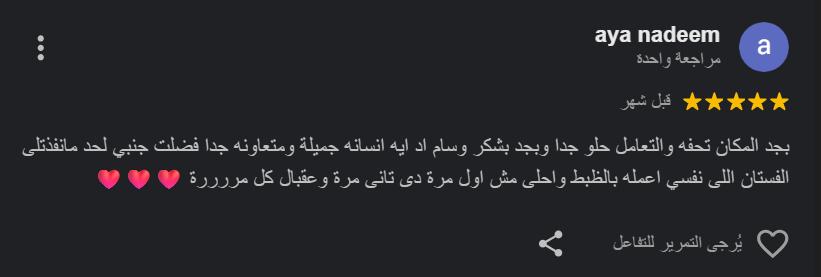
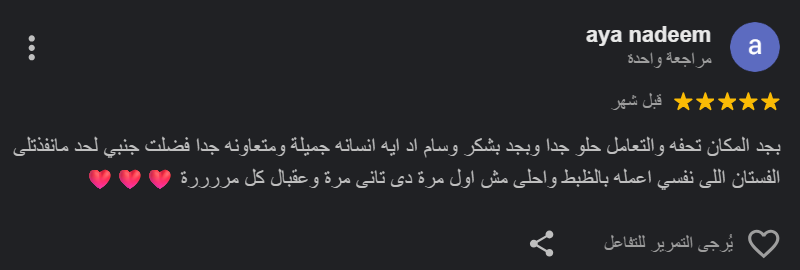
Auto update 2026-02-21 14:22

diff --git a/laravel_home/resources/views/home.blade.php b/laravel_home/resources/views/home.blade.php
@@ -774,11 +774,11 @@
         }
 
         .reviews-nav.prev {
-            right: 10px;
+            left: 10px;
         }
 
         .reviews-nav.next {
-            left: 10px;
+            right: 10px;
         }
 
         .review-shot {
@@ -806,13 +806,12 @@
         }
 
         .review-shot img {
-            width: auto;
+            width: 800px;
             max-width: 100%;
-            height: auto;
-            object-fit: contain;
+            height: 270px;
+            object-fit: cover;
             display: block;
             margin: 0 auto;
-            max-height: min(76vh, 760px);
             border-radius: 10px;
             box-shadow: 0 6px 18px rgba(23, 39, 59, 0.12);
             background: #f2f2f5;
@@ -1709,8 +1708,8 @@
             </div>
 
             <div class="reviews-slider-wrap">
-                <button type="button" class="reviews-nav prev" id="reviewsPrev" aria-label="السابق">›</button>
-                <button type="button" class="reviews-nav next" id="reviewsNext" aria-label="التالي">‹</button>
+                <button type="button" class="reviews-nav prev" id="reviewsPrev" aria-label="السابق">‹</button>
+                <button type="button" class="reviews-nav next" id="reviewsNext" aria-label="التالي">›</button>
 
                 <div class="reviews-slider" id="reviewsSlider">
                 @php
@@ -1740,6 +1739,7 @@
             if (!cards.length) return;
 
             let currentIndex = 0;
+            let autoSlideTimer = null;
 
             const updateButtons = () => {
                 prevBtn.disabled = currentIndex <= 0;
@@ -1752,6 +1752,25 @@
                 currentIndex = Math.max(0, Math.min(index, cards.length - 1));
                 cards[currentIndex].scrollIntoView({ behavior: 'smooth', inline: 'start', block: 'nearest' });
                 updateButtons();
+            };
+
+            const goToNext = () => {
+                if (currentIndex >= cards.length - 1) {
+                    goToIndex(0);
+                    return;
+                }
+                goToIndex(currentIndex + 1);
+            };
+
+            const startAutoSlide = () => {
+                stopAutoSlide();
+                autoSlideTimer = setInterval(goToNext, 4000);
+            };
+
+            const stopAutoSlide = () => {
+                if (!autoSlideTimer) return;
+                clearInterval(autoSlideTimer);
+                autoSlideTimer = null;
             };
 
             const detectActiveIndex = () => {
@@ -1772,11 +1791,32 @@
                 updateButtons();
             };
 
-            prevBtn.addEventListener('click', () => goToIndex(currentIndex - 1));
-            nextBtn.addEventListener('click', () => goToIndex(currentIndex + 1));
+            prevBtn.addEventListener('click', () => {
+                goToIndex(currentIndex - 1);
+                startAutoSlide();
+            });
+
+            nextBtn.addEventListener('click', () => {
+                goToIndex(currentIndex + 1);
+                startAutoSlide();
+            });
+
             slider.addEventListener('scroll', detectActiveIndex, { passive: true });
+            slider.addEventListener('mouseenter', stopAutoSlide);
+            slider.addEventListener('mouseleave', startAutoSlide);
+            slider.addEventListener('touchstart', stopAutoSlide, { passive: true });
+            slider.addEventListener('touchend', startAutoSlide, { passive: true });
+
+            document.addEventListener('visibilitychange', () => {
+                if (document.hidden) {
+                    stopAutoSlide();
+                } else {
+                    startAutoSlide();
+                }
+            });
 
             updateButtons();
+            startAutoSlide();
         })();
     </script>
 
